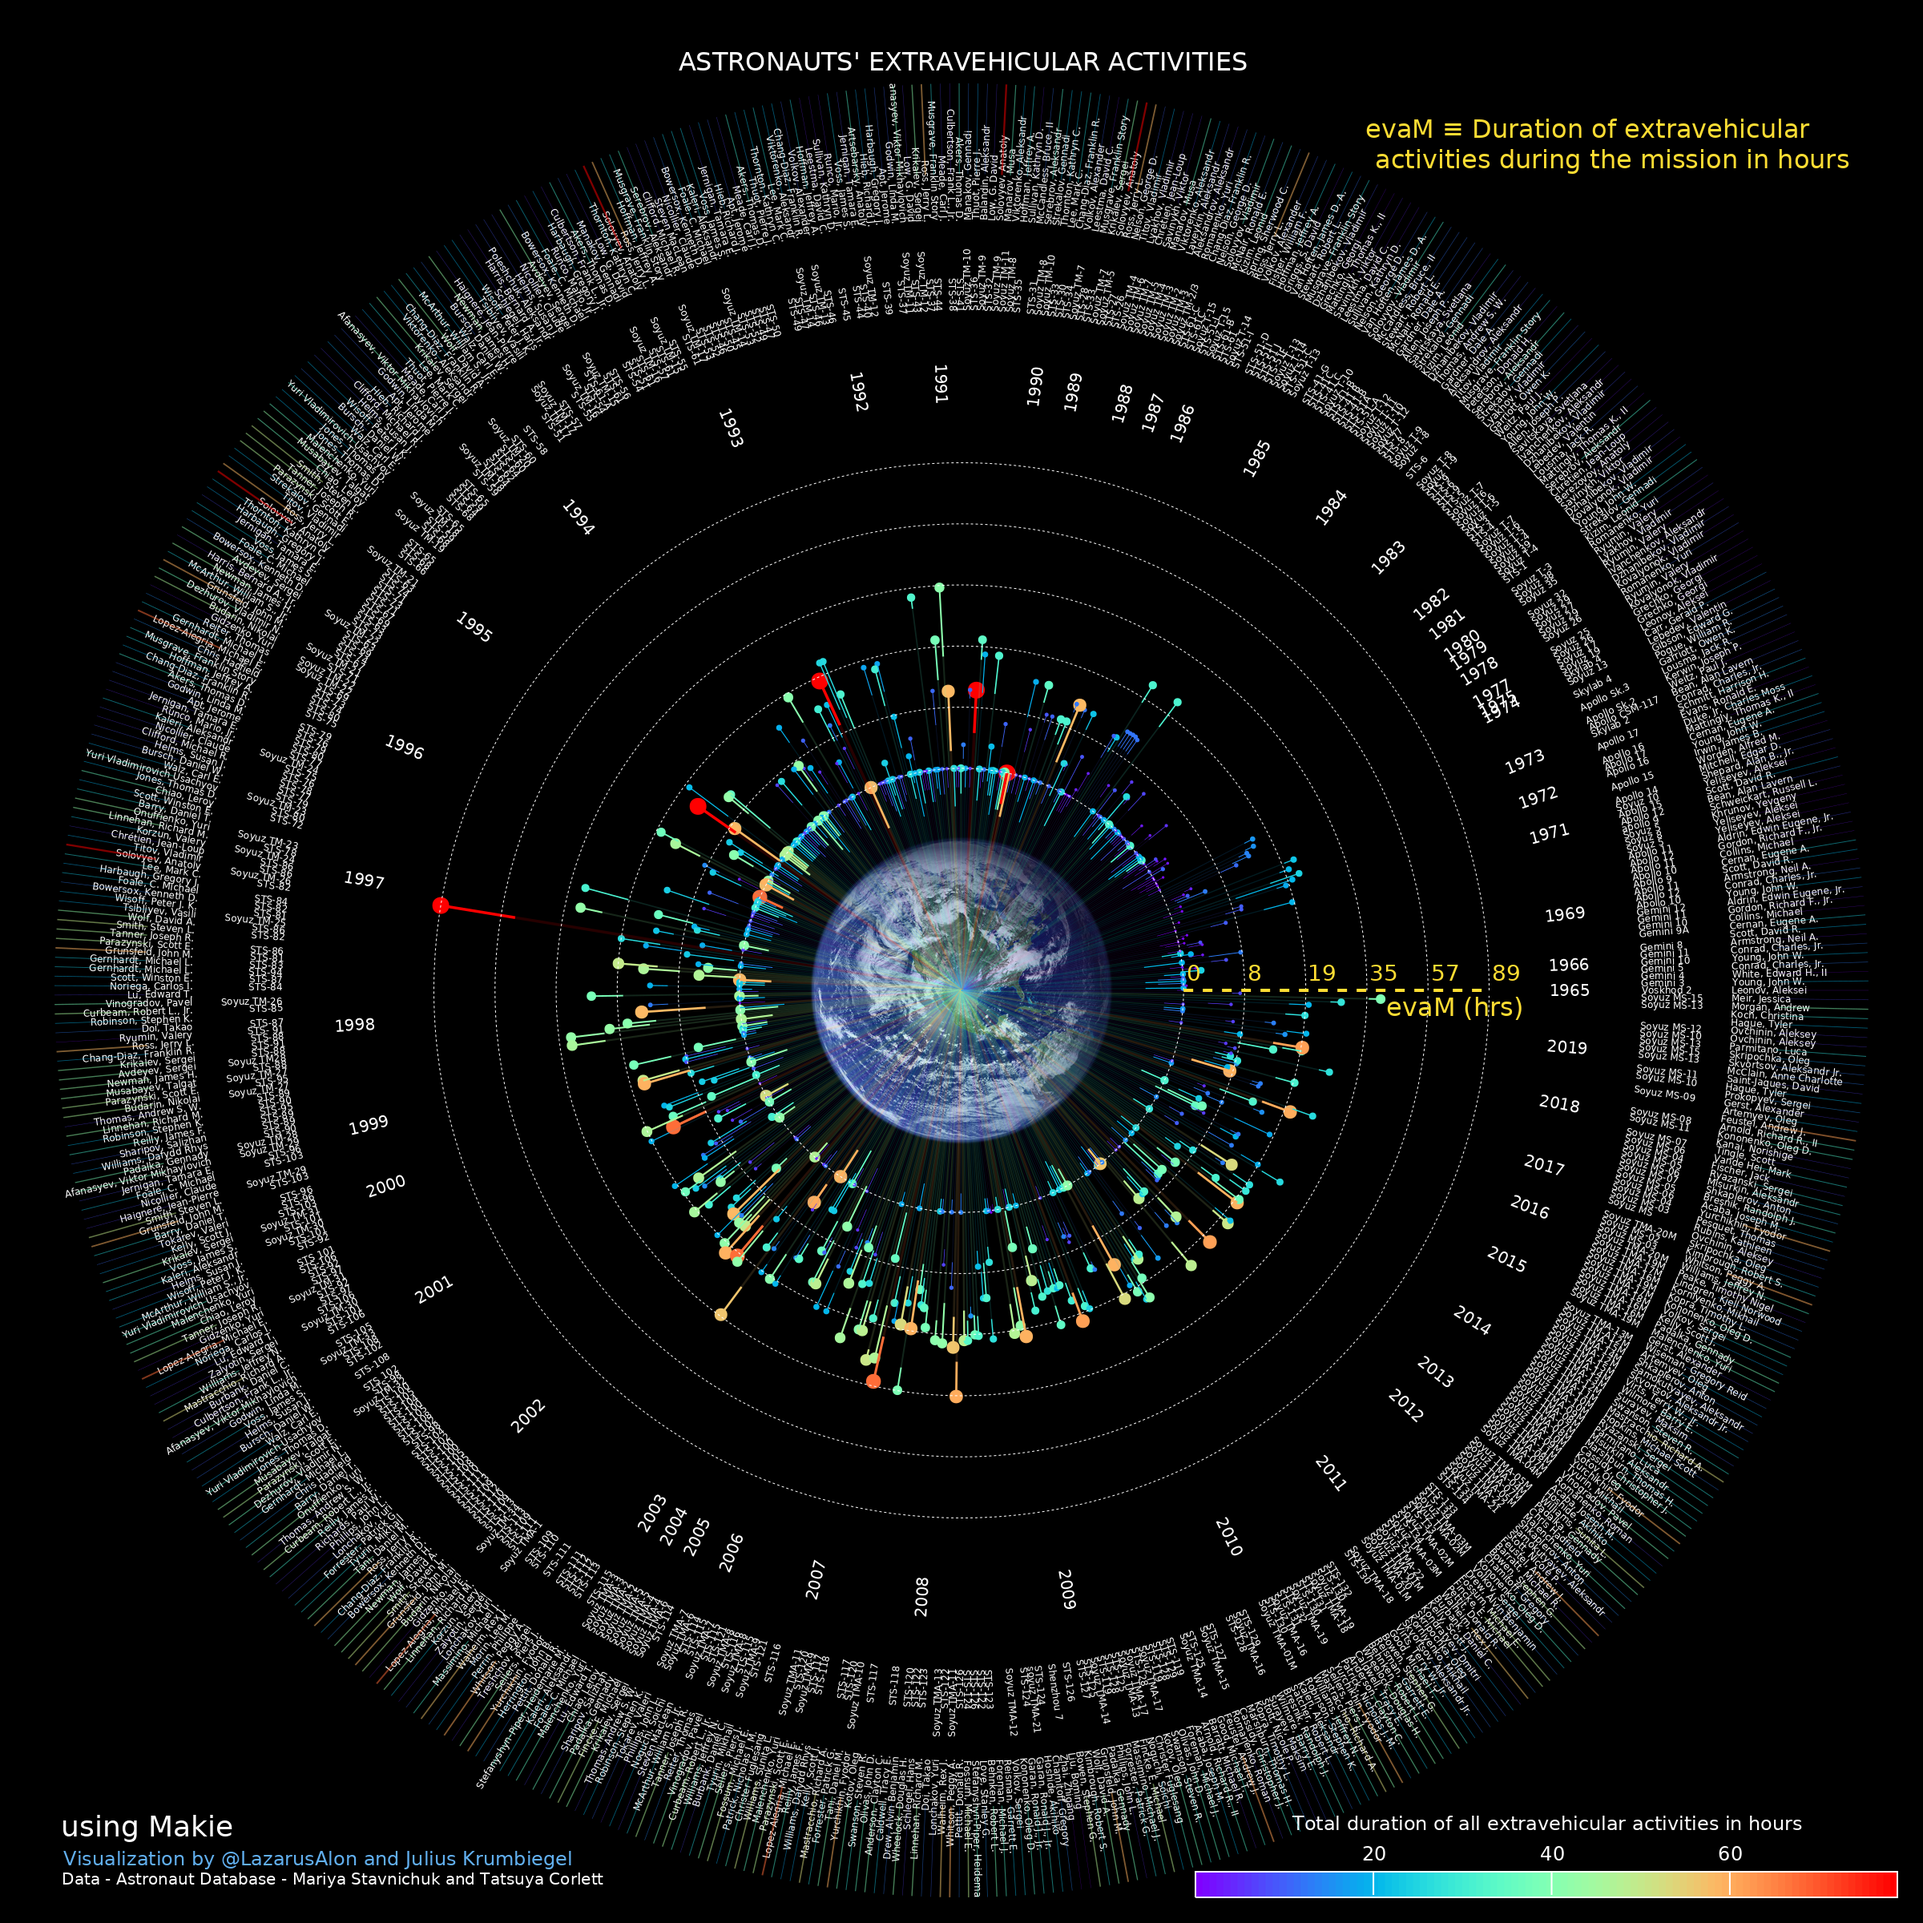
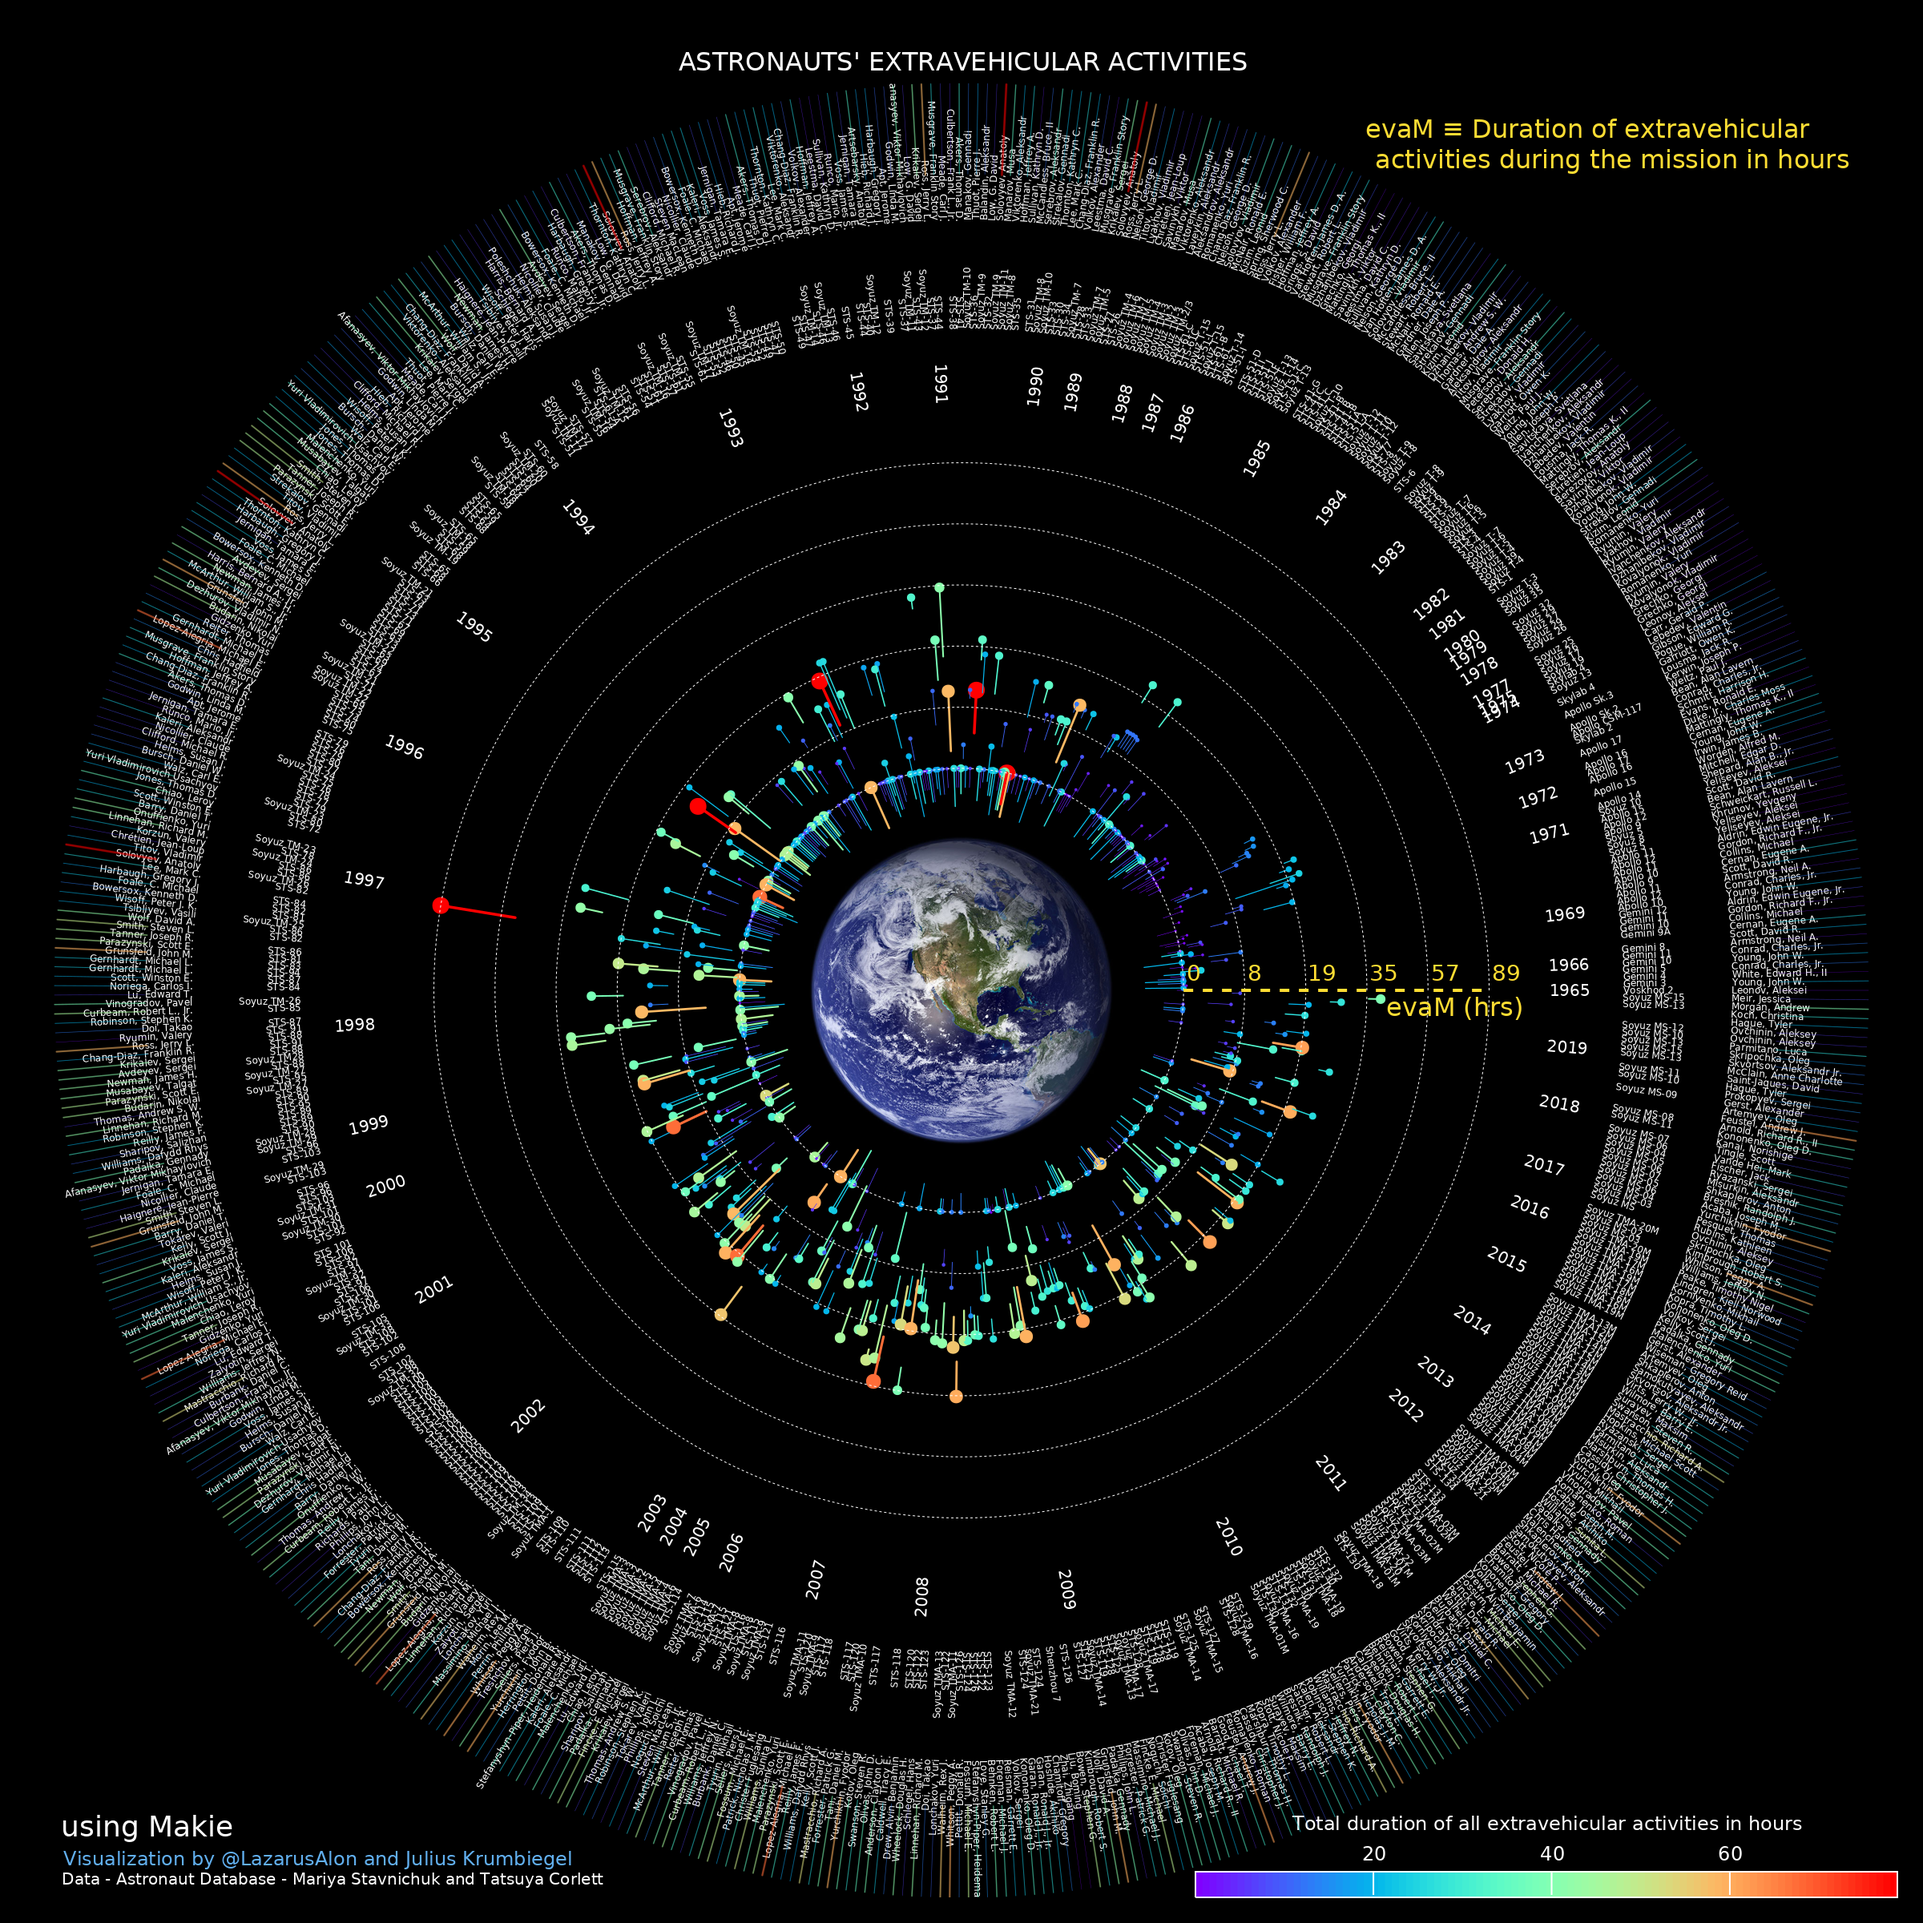
Deploying to gh-pages from  @ b33ed58c075fc88a18c259220b5a013683931eb3 🚀

Changed region(s): [[0.125, 0.125, 0.875, 0.9062], [0.3438, 0.375, 0.6562, 0.6875]]

diff --git a/withTheme/theme_dark_astronauts/index.html b/withTheme/theme_dark_astronauts/index.html
@@ -224,7 +224,7 @@
 <!-- Content appended here (in class franklin-content) -->
 <div class="franklin-content"><h2 id="theme_dark_astronauts"><a href="#theme_dark_astronauts" class="header-anchor">theme_dark, astronauts</a></h2>
 <p><img src="/BeautifulMakie/assets/scripts/output/theme_dark_astronauts.png" alt=""> <pre><code class="language-julia"># by lazarusA &amp; Julius Krumbiegel
-using CairoMakie, HTTP, CSV, DataFrames, DataFramesMeta, Suppressor
+using Makie, CairoMakie, HTTP, CSV, DataFrames, DataFramesMeta, Suppressor
 using Images, ColorSchemes, Colors, Statistics
 using Lazy: @&gt;
 CairoMakie.activate&#33;&#40;&#41;
@@ -260,27 +260,35 @@ let
         tierra &#61; HTTP.download&#40;tierra&#41;
         imgEarth &#61; load&#40;tierra&#41;
     end
+    function getPoints&#40;xi,yi,xf,yf&#41;
+        xyos &#61; &#91;&#93;
+        for i in 1:length&#40;xo&#41;
+            push&#33;&#40;xyos, &#91;xi&#91;i&#93;, yi&#91;i&#93;&#93;&#41;
+            push&#33;&#40;xyos, &#91;xf&#91;i&#93;, yf&#91;i&#93;&#93;&#41;
+        end
+        xyos
+    end
     x, y &#61; astro.xM, astro.yM # end points
     xs, ys &#61; astro.xMnm, astro.yMnm # short lines starts
     xo &#61; yo &#61; zeros&#40;length&#40;x&#41;&#41; # origin
     xnb, ynb &#61; 90 * cos.&#40;astro.θ&#41;, 90 * sin.&#40;astro.θ&#41;
     xne, yne &#61; 100 * cos.&#40;astro.θ&#41;, 100 * sin.&#40;astro.θ&#41;
-    ps, cp &#61; 0.5 .&#43; 3astro.ntotEVA, astro.total_eva_hrs ; # point size, color palette
+    ps, colorp &#61; 0.5 .&#43; 3astro.ntotEVA, astro.total_eva_hrs ; # point size, color palette
     gridLines &#61; LinRange&#40;log10&#40;offhr&#41;, maximum&#40;astro.evaM&#41;, 6&#41;
     horas &#61; &#40;10 .^ gridLines .- offhr&#41;*median&#40;60*astro.eva_hrs_mission&#41;/60
     xg &#61; &#91;rPts * gl .* cos.&#40;astro.θ&#41; for gl in gridLines&#93;
-    yg &#61; &#91;rPts * gl .* sin.&#40;astro.θ&#41; for gl in gridLines&#93;;
-    function segments&#33;&#40;xs, xf, ys, yf, cp, ps; αc &#61; 1, pal &#61; :rainbow2&#41;
-        cpal &#61; get&#40;colorschemes&#91;pal&#93;, cp, :extrema&#41;
-        for k in 1:length&#40;xs&#41;
-            lines&#33;&#40;&#91;xs&#91;k&#93;, xf&#91;k&#93;&#93;, &#91;ys&#91;k&#93;, yf&#91;k&#93;&#93;, color &#61; &#40;cpal&#91;k&#93;, αc&#41;, linewidth &#61; ps&#91;k&#93;&#41;
-        end
-    end
+    yg &#61; &#91;rPts * gl .* sin.&#40;astro.θ&#41; for gl in gridLines&#93;
+    # in order to use linesegments &#40;faster to plot&#41;
+    xyos &#61; getPoints&#40;xo,yo,xs,ys&#41;
+    xys  &#61; getPoints&#40;xs,ys,x,y&#41;
+    xybe &#61; getPoints&#40;xnb,ynb,xne,yne&#41;
+    cpDo &#61; repeat&#40;colorp, inner&#61;2&#41;
+    psDo &#61; repeat&#40;ps, inner&#61;2&#41;;
 
     with_theme&#40;theme_black&#40;&#41;&#41; do
         fig &#61; Figure&#40;resolution &#61; &#40;1200, 1200&#41;&#41;
         cmap &#61; :rainbow2
-        ax &#61; Makie.Axis&#40;fig&#91;1, 1&#93;,
+        ax &#61; CairoMakie.Axis&#40;fig&#91;1, 1&#93;,
             title &#61; &quot;ASTRONAUTS&#39; EXTRAVEHICULAR ACTIVITIES&quot;,
             autolimitaspect &#61; 1&#41;
         hidespines&#33;&#40;ax&#41;
@@ -292,15 +300,15 @@ let
             position &#61; @.&#40;Point&#40;cos&#40;valYear.θ&#41;, sin&#40;valYear.θ&#41;&#41; * 65&#41;,
             rotation &#61; valYear.texttheta, textsize &#61; 10, align &#61; valYear.align&#41;
         text&#33;&#40;vehicles.ascend_shuttle,
-            position &#61; @.&#40;Point&#40;cos&#40;vehicles.θ&#41;, sin&#40;vehicles.θ&#41;&#41; * 75&#41;,
+            position &#61; @.&#40;Point&#40;cos&#40;vehicles.θ&#41;, sin&#40;vehicles.θ&#41;&#41; * 73&#41;,
             rotation &#61; vehicles.texttheta, textsize &#61; 6, align &#61; vehicles.align&#41;
 
-        pltobj &#61; scatter&#33;&#40;ax, astro&#91;:,:xM&#93;, astro&#91;:,:yM&#93;, color &#61; cp,
+        pltobj &#61; scatter&#33;&#40;ax, astro&#91;:,:xM&#93;, astro&#91;:,:yM&#93;, color &#61; colorp,
             colormap &#61; cmap, markersize &#61; 3*ps, strokewidth &#61; 0&#41;
 
-        segments&#33;&#40;xo, xs, yo, ys, cp, ps/2; αc &#61; 0.15, pal &#61; cmap&#41;
-        segments&#33;&#40;xs, x, ys, y, cp, ps/2; pal &#61; cmap&#41;
-        segments&#33;&#40;xnb, xne, ynb, yne, cp, ps/3; αc &#61; 0.5&#41;
+        linesegments&#33;&#40;Point2f0.&#40;xyos&#41;, color &#61; cpDo, linewidth &#61; psDo/2, colormap &#61; &#40;cmap, 0.15&#41;&#41;
+        linesegments&#33;&#40;Point2f0.&#40;xys&#41;, color &#61; cpDo, linewidth &#61; psDo/2,colormap &#61; cmap&#41;
+        linesegments&#33;&#40;Point2f0.&#40;xybe&#41;, color &#61; cpDo, linewidth &#61; psDo/3, colormap &#61; &#40;cmap,0.5&#41;&#41;
 
         Colorbar&#40;fig&#91;1,1&#93;, pltobj,
             label &#61; &quot;Total duration of all extravehicular activities in hours&quot;,
